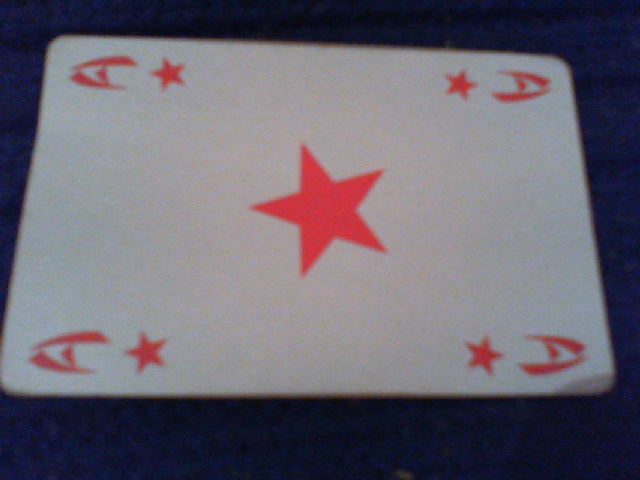
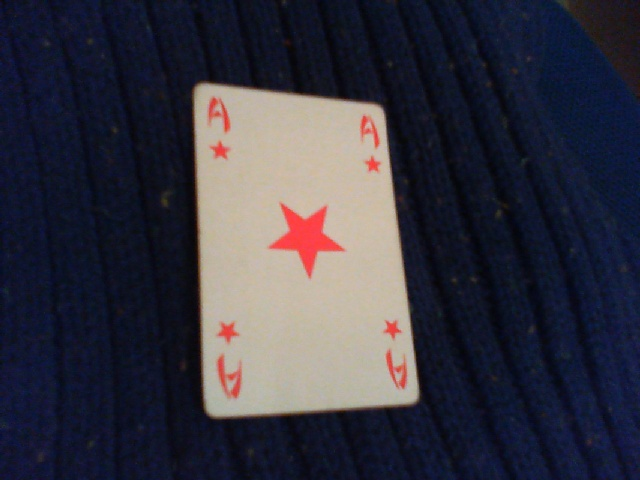
Working Progress vol 2

diff --git a/TheCardProject/HopeFinal.py b/TheCardProject/HopeFinal.py
@@ -18,7 +18,7 @@ def captureImage(captured_frame):
 
 
 
-def testing():
+def cropImage():
     image = cv2.imread("image.jpg")
     gray = cv2.cvtColor(image,cv2.COLOR_BGR2GRAY)
     gray = cv2.GaussianBlur(gray,(7,7),0)
@@ -32,9 +32,6 @@ def testing():
     cnts = cv2.findContours(edged.copy(),cv2.RETR_EXTERNAL,cv2.CHAIN_APPROX_SIMPLE)
     cnts = cnts[0] if imutils.is_cv2() else cnts[1]
     for c in cnts:
-
-
-
         if cv2.contourArea(c) < 2000:
             continue
         box = cv2.minAreaRect(c)
@@ -63,19 +60,16 @@ while True:
     # Showing the frame
     ret, frame = camera.read()
     cv2.imshow("Frame",frame)
-
-    testing()
-
-
     # Working switch case to close
     key = cv2.waitKey(2)
     if key == 27:
         break
     elif key == 13:
-
         contouredArea = frame
         # Sending the image to save
         captureImage(contouredArea)
+        # Cropping Image
+        cropImage()
 
 
 
